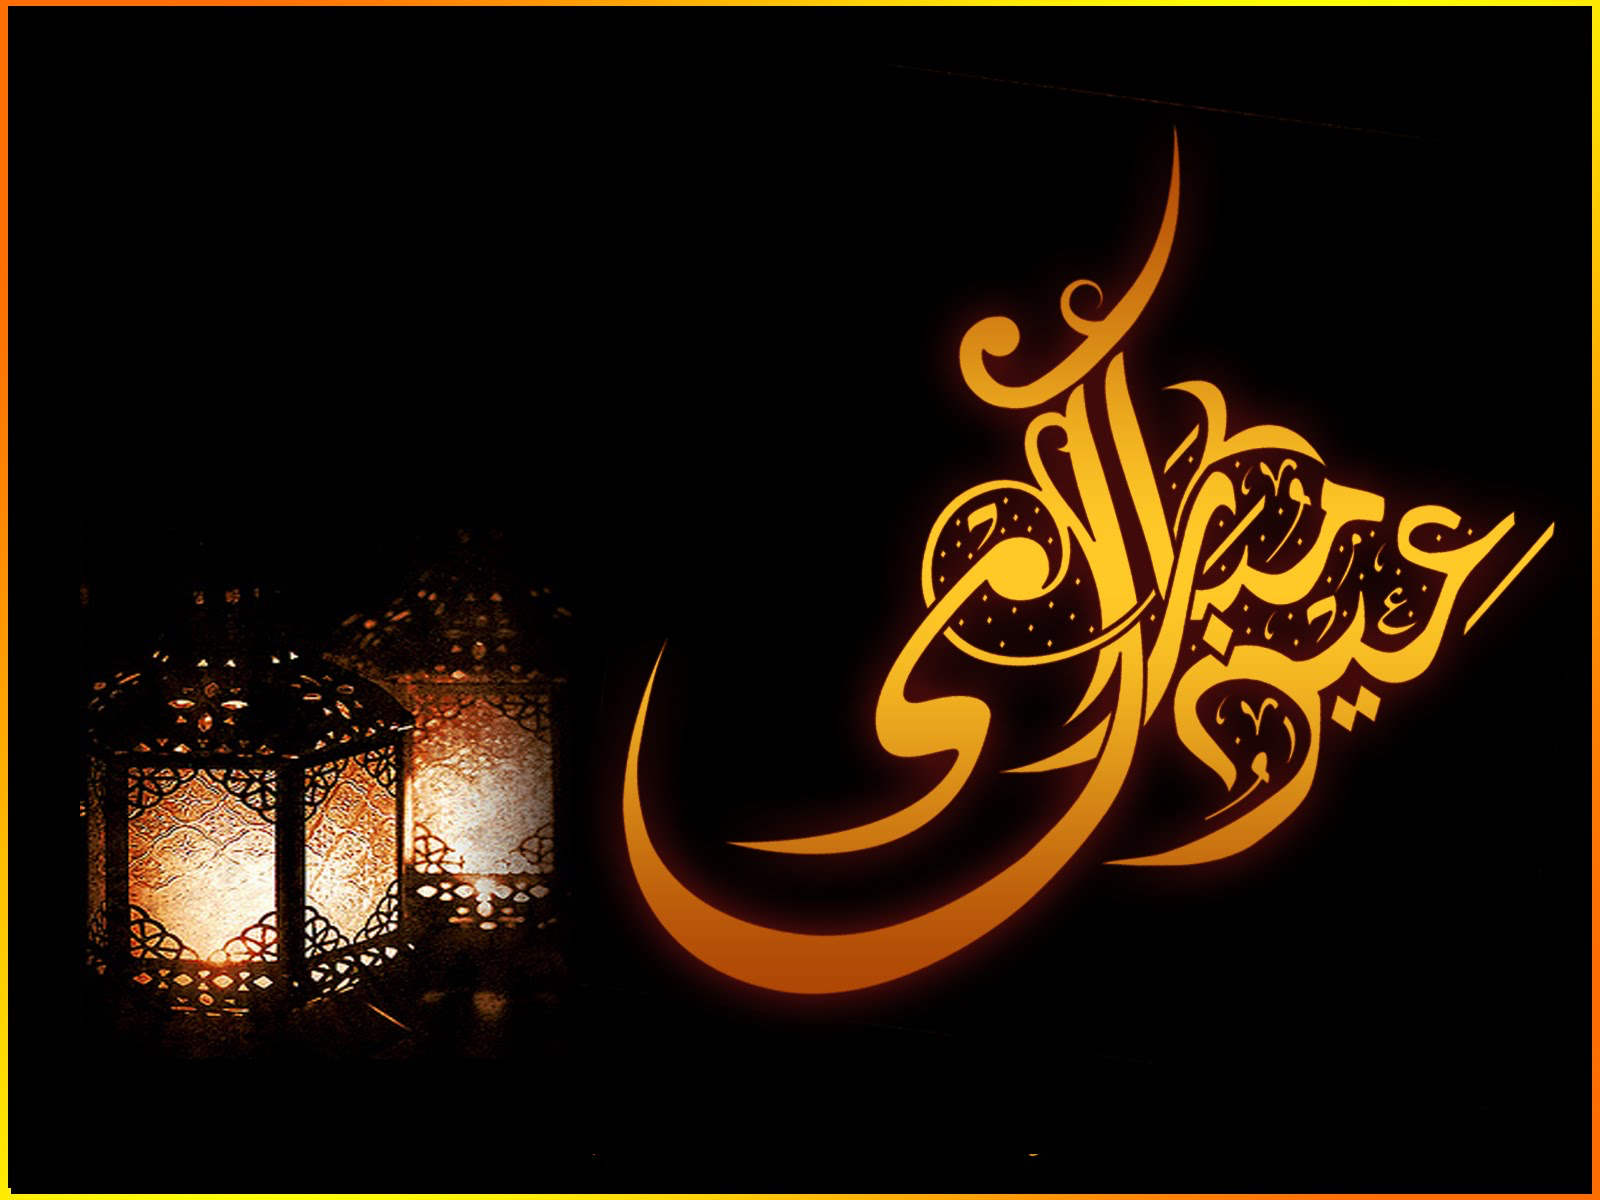
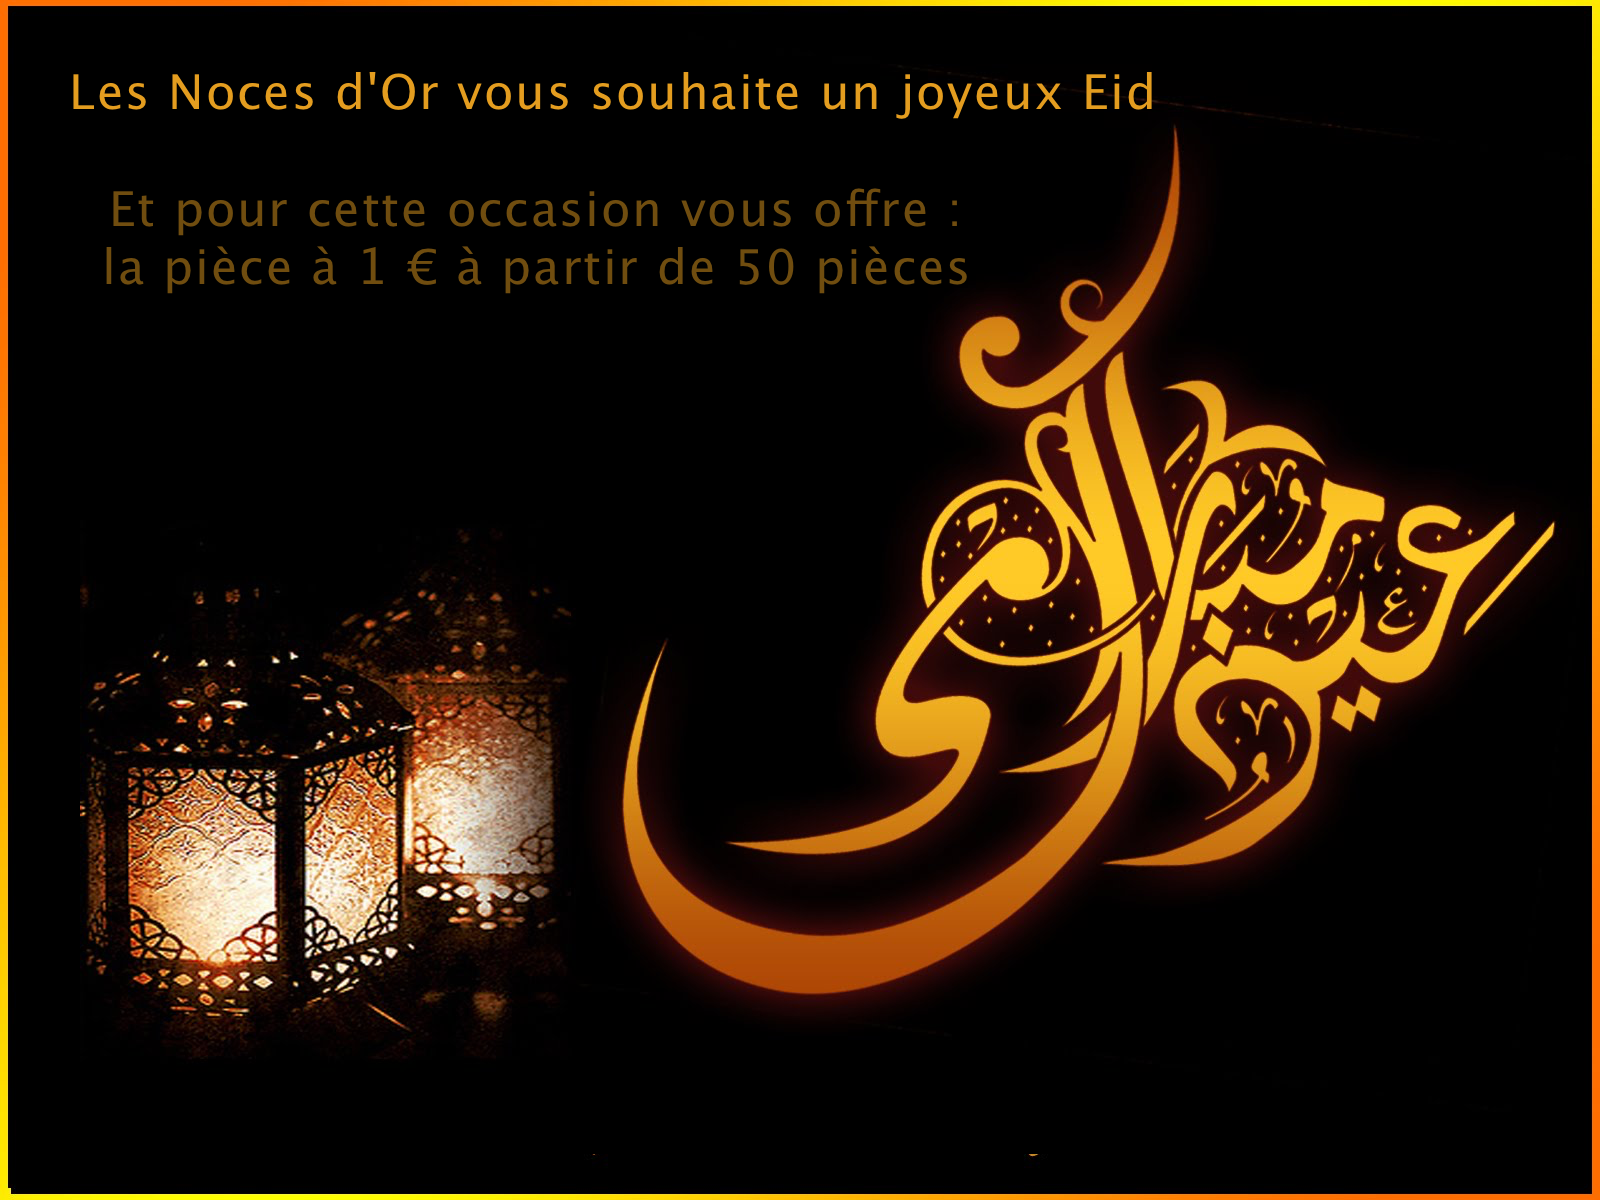
change in pop up

Changed region(s): [[0.0625, 0.1542, 0.625, 0.2467], [0.0312, 0.0617, 0.7188, 0.0925]]

diff --git a/index.html b/index.html
@@ -33,7 +33,7 @@
 			</div>
 
 			<div class="item">
-				<simg src="images/carousel3.jpg"  alt="...">
+				<img src="images/carousel3.png"  alt="...">
 				<div class="carousel-caption">
 				</div>
 			</div>
@@ -116,7 +116,7 @@
 			<h2>Les Noces d'Or vous souhaite un joyeux Aid</h2>
 			<div class="popup">
 				<p>Et pour cette occasion vous offre </p>
-				<p>A Euro la pièce à partir de 50 pièces</p>
+				<p> 50 pièces à 39 € </p>
 			</div>
 			
 			<div><button class="action" data-dialog-close="a">Fermer</button></div>

diff --git a/css/style.css b/css/style.css
@@ -401,7 +401,7 @@ button {
 	margin: 0;
 	font-weight: 400;
 	font-size: 2em;
-	padding: 0 0 2em;
+	padding: 0 0 1em;
 	margin: 0;
 }
 
